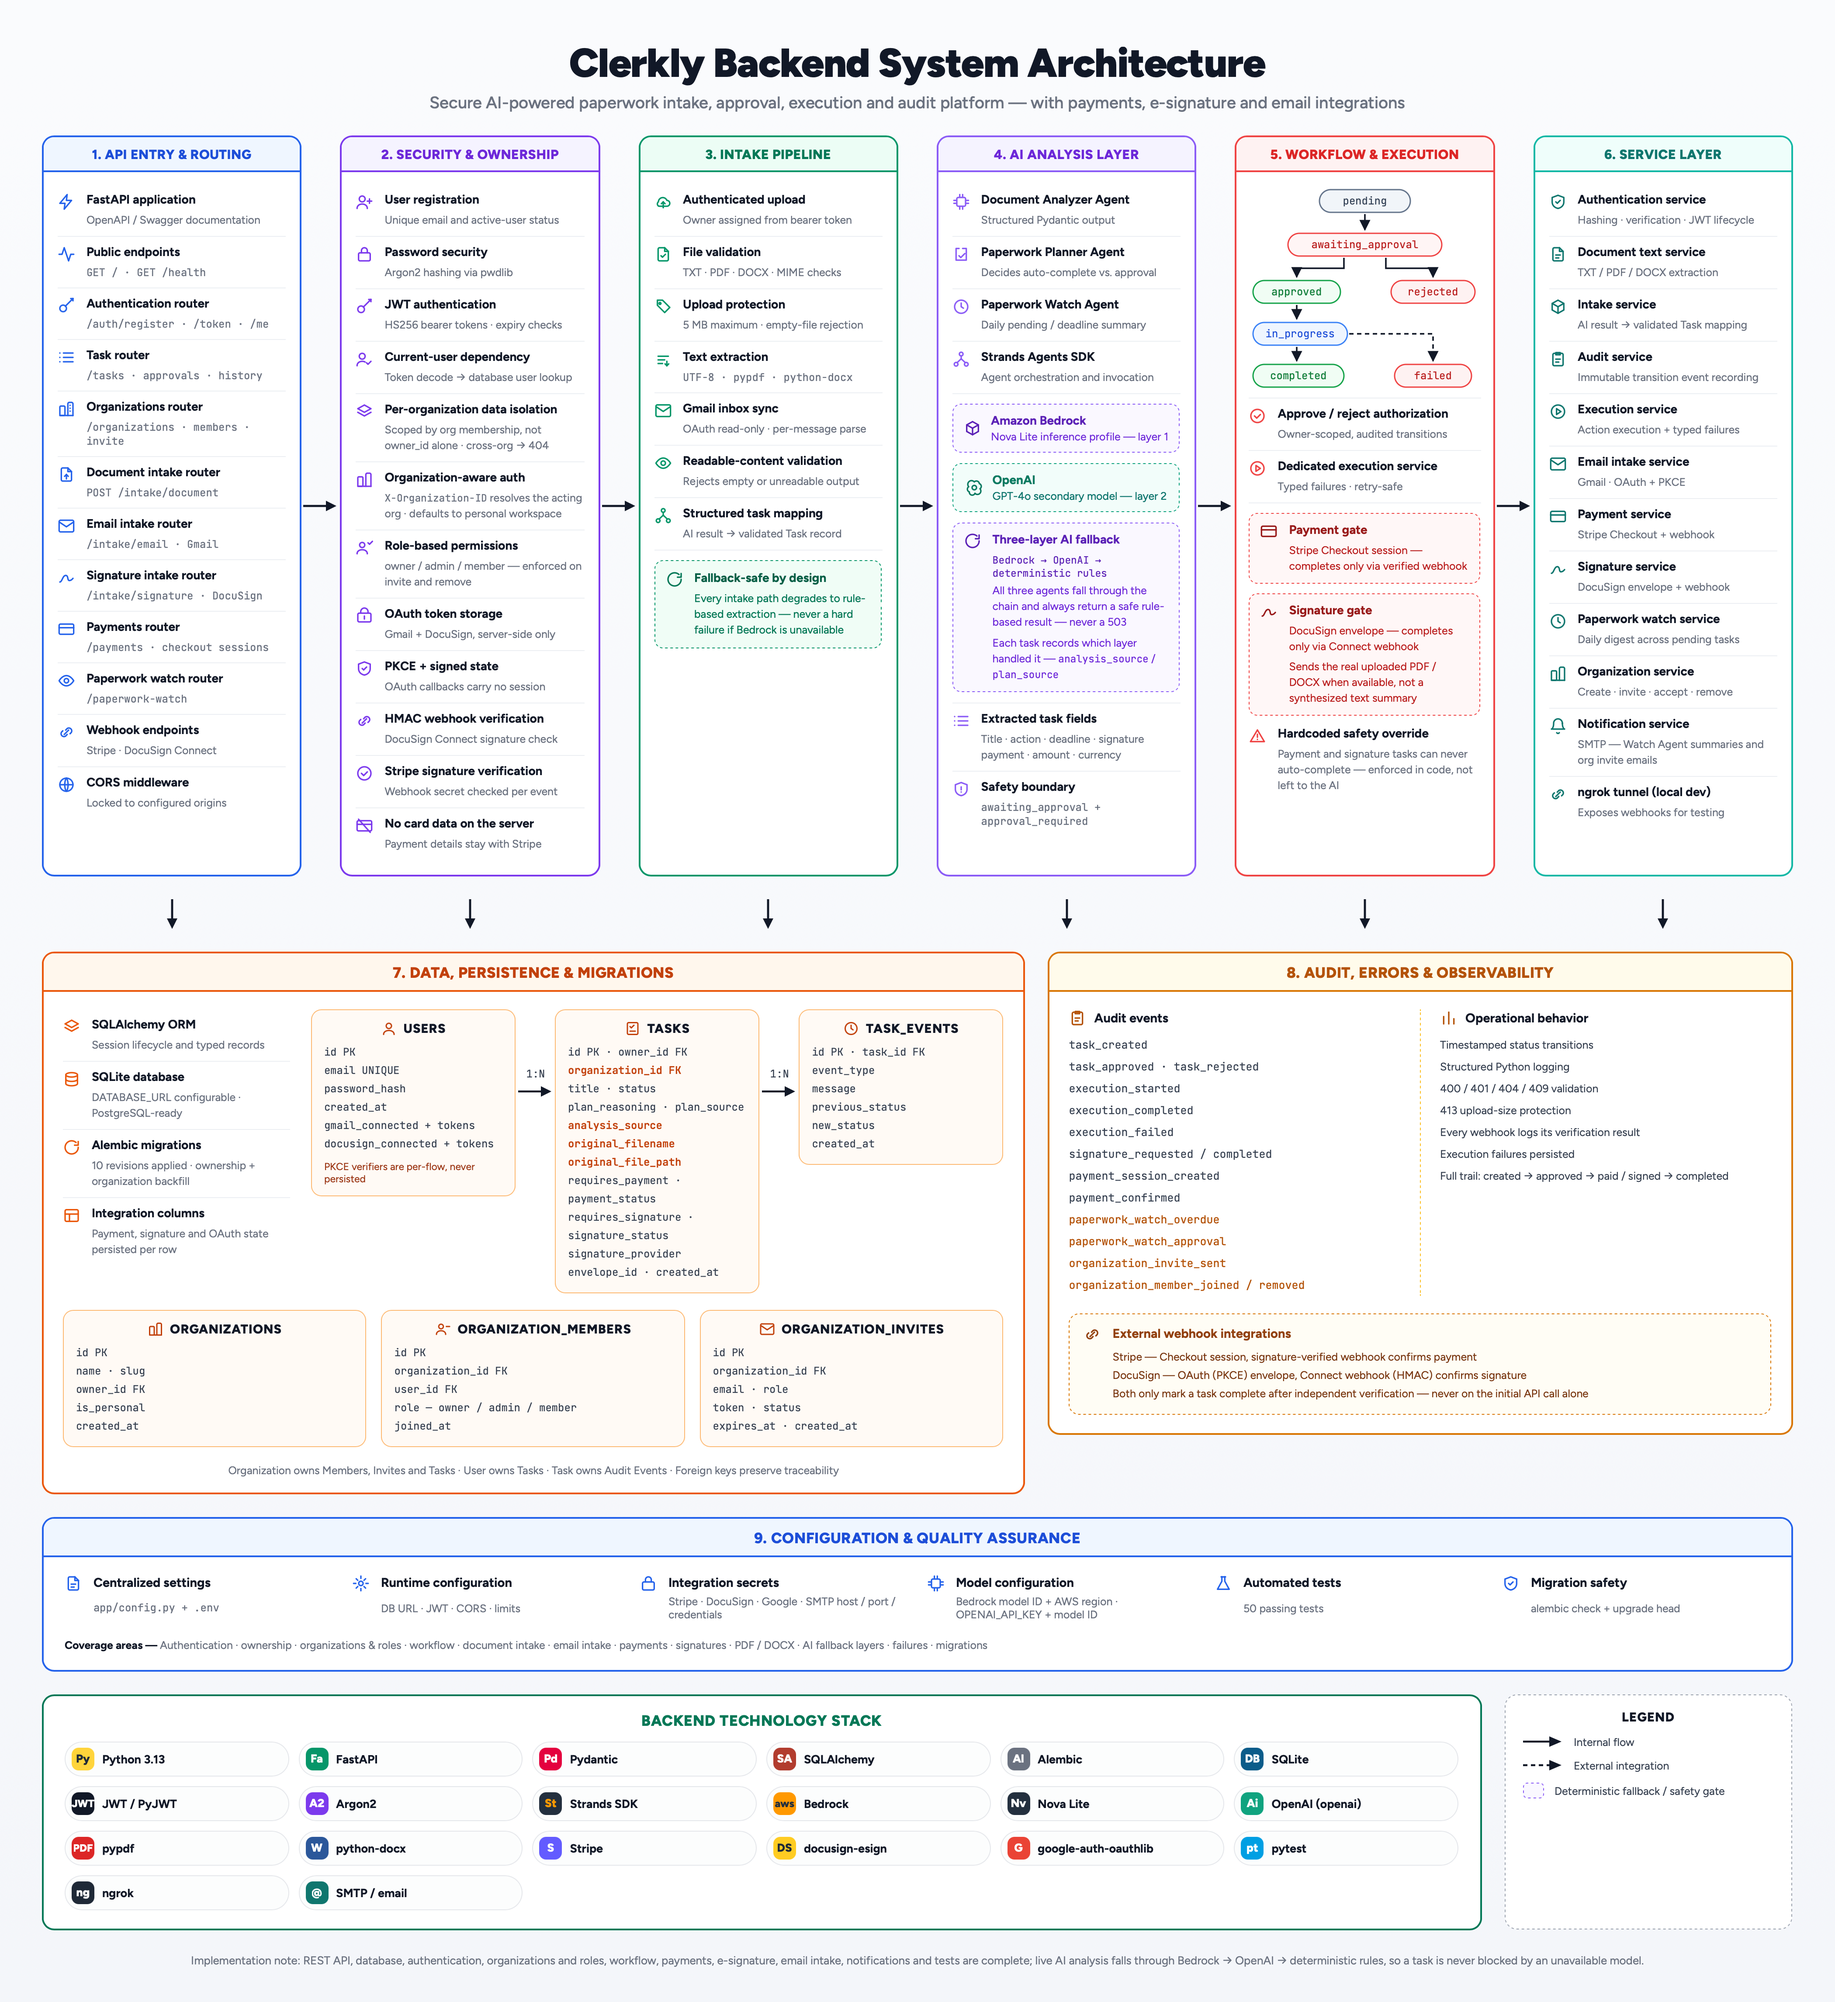
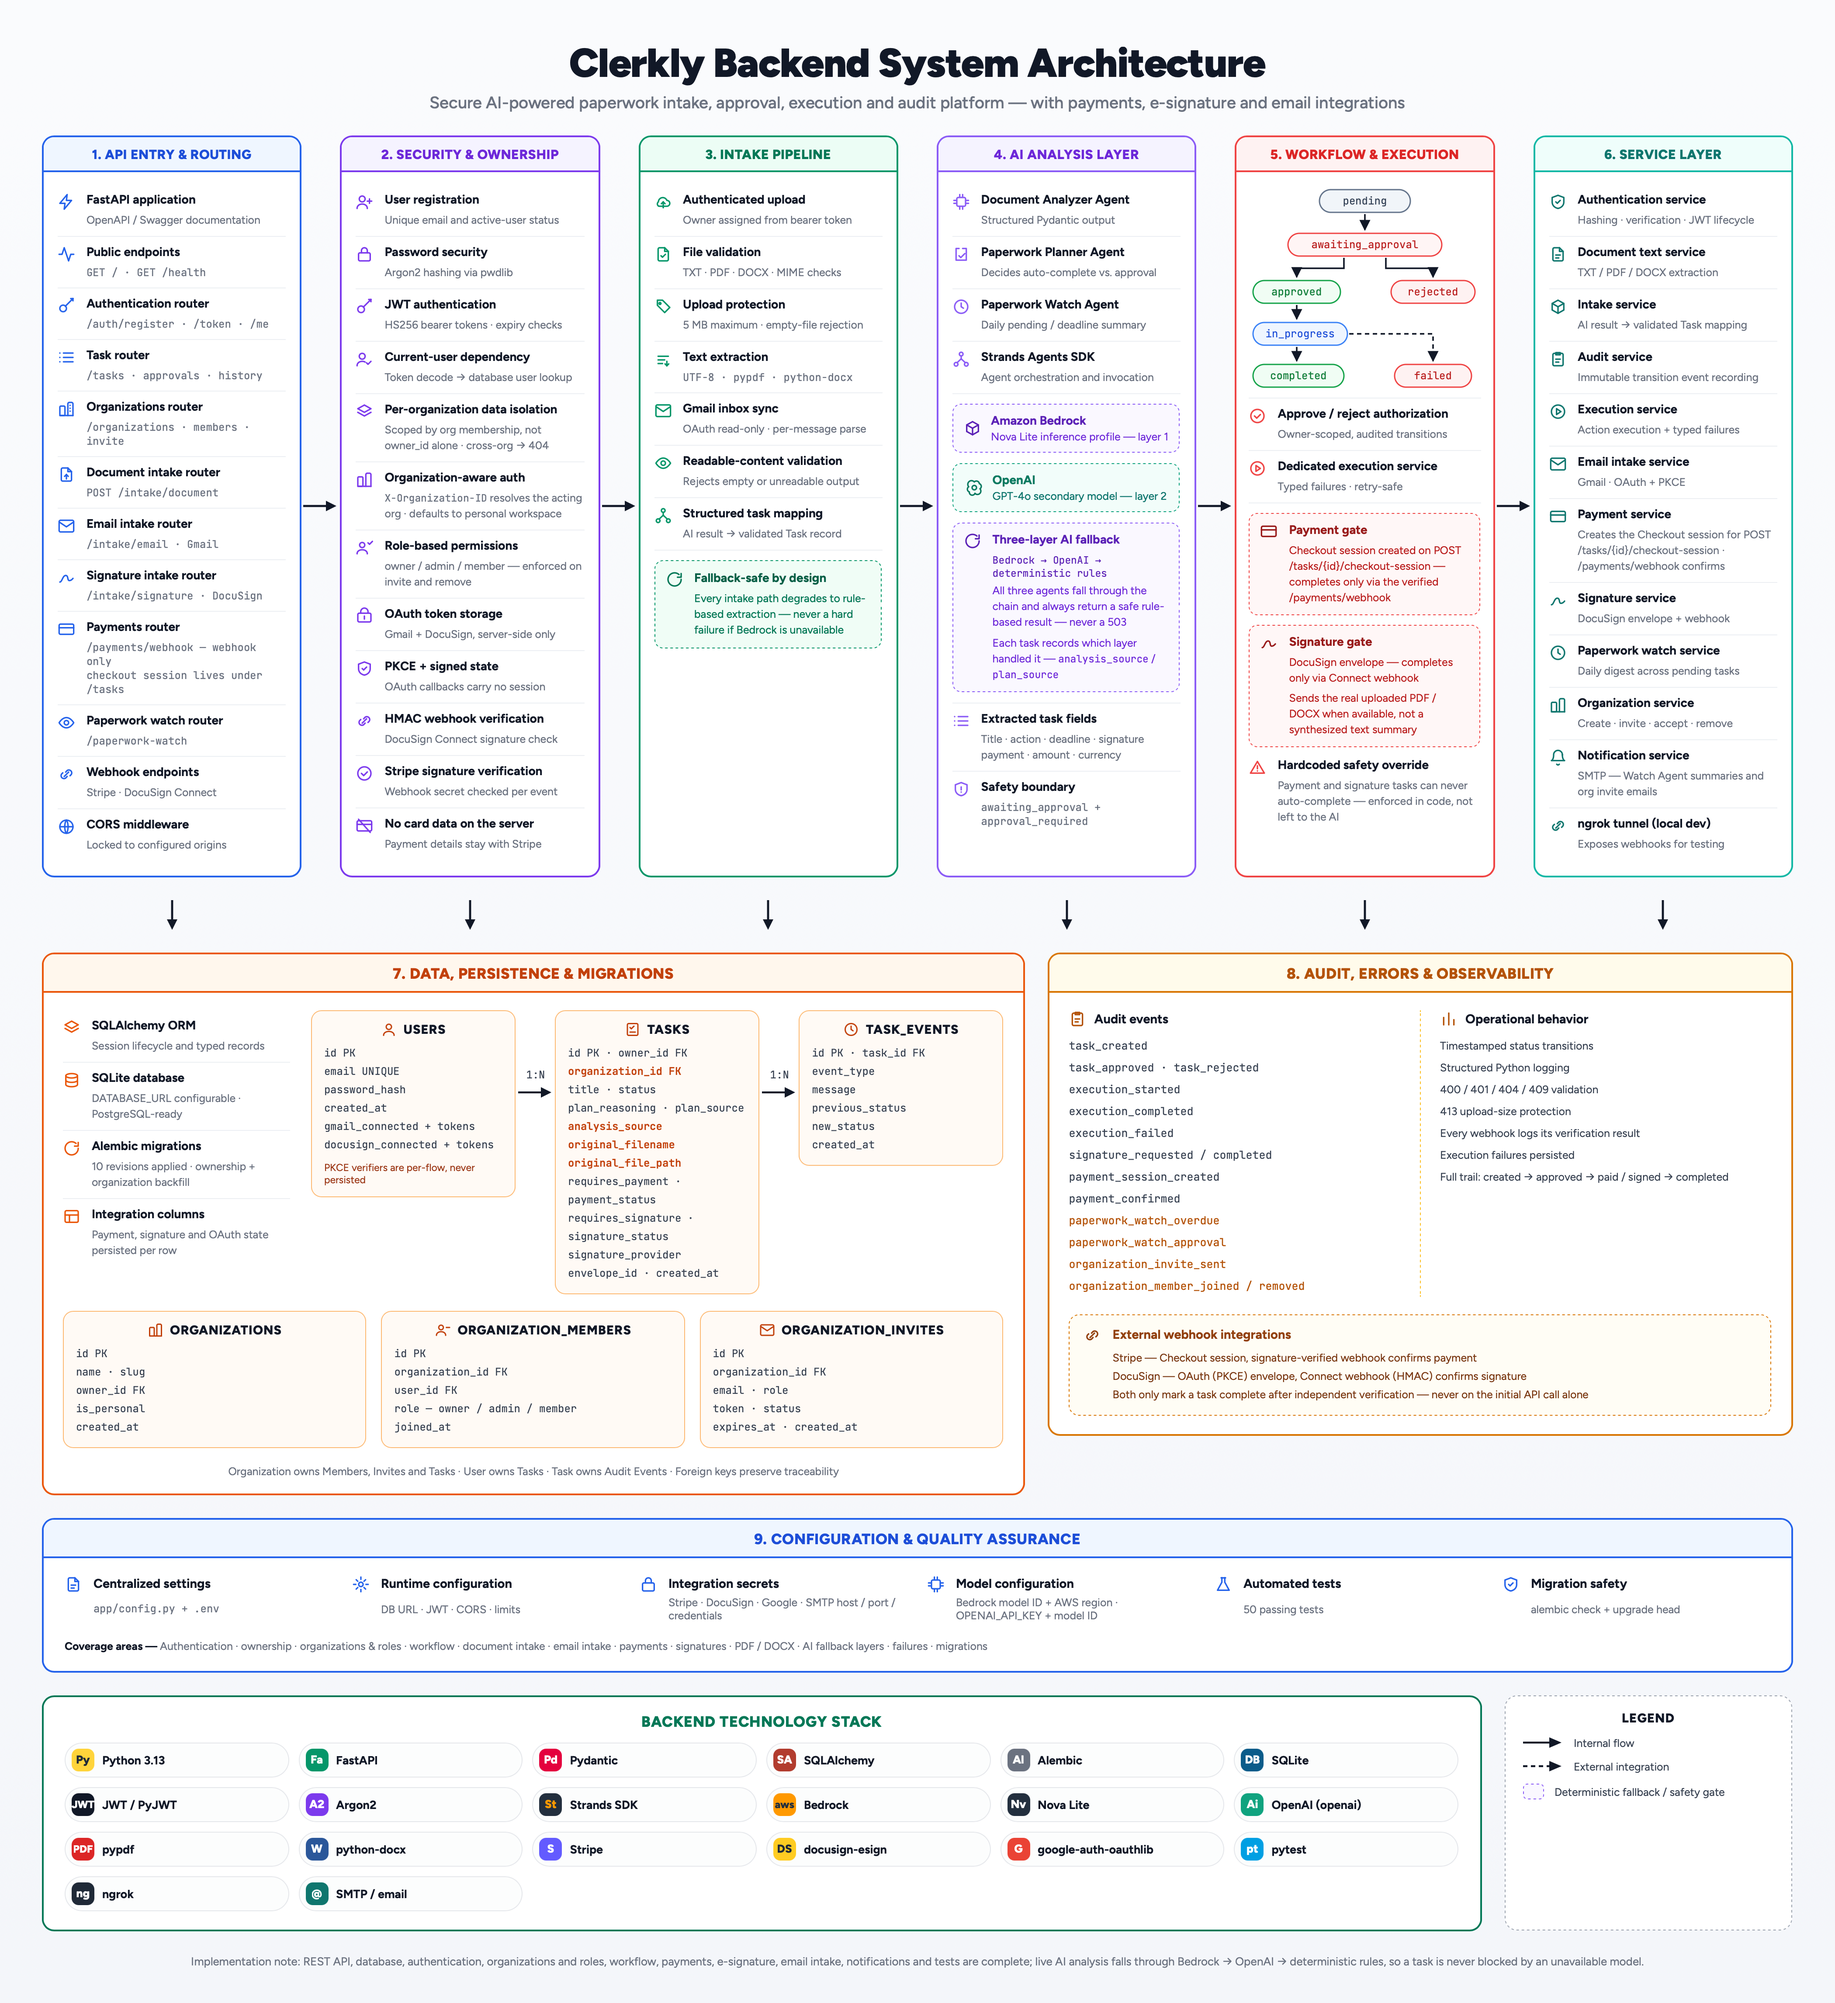
Add policy acceptance tracking (Terms of Service / Privacy Policy versioning)

diff --git a/backend/app/api/policy.py b/backend/app/api/policy.py
@@ -1,0 +1,80 @@
+from fastapi import APIRouter, Depends
+from sqlalchemy.orm import Session
+
+from app.auth_dependencies import get_current_user
+from app.config import settings
+from app.database import get_db
+from app.models.policy import (
+    AcceptPolicyRequest,
+    PolicyAcceptanceResponse,
+    PolicyStatus,
+)
+from app.models.user_record import UserRecord
+from app.services import policy_service
+
+
+router = APIRouter(
+    prefix="/policy",
+    tags=["Policy"],
+)
+
+
+@router.get("/status", response_model=PolicyStatus)
+def get_policy_status(
+    database: Session = Depends(get_db),
+    current_user: UserRecord = Depends(get_current_user),
+):
+    """
+    Tells the frontend whether the logged-in user needs to be
+    shown the accept-policy prompt — either because they've
+    never accepted anything, or because the current version has
+    moved past whatever they last accepted.
+    """
+
+    latest = policy_service.get_latest_acceptance(
+        database=database,
+        user_id=current_user.user_id,
+    )
+
+    return PolicyStatus(
+        current_version=settings.current_policy_version,
+        has_accepted_current_version=(
+            policy_service.has_accepted_current_version(
+                database=database,
+                user_id=current_user.user_id,
+            )
+        ),
+        accepted_version=(
+            latest.policy_version if latest else None
+        ),
+        accepted_at=latest.accepted_at if latest else None,
+    )
+
+
+@router.post(
+    "/accept",
+    response_model=PolicyAcceptanceResponse,
+    status_code=201,
+)
+def accept_policy(
+    body: AcceptPolicyRequest,
+    database: Session = Depends(get_db),
+    current_user: UserRecord = Depends(get_current_user),
+):
+    """
+    Records that the current user has accepted a specific
+    policy version. The frontend should call this right after
+    registration, and again any time /policy/status reports
+    has_accepted_current_version as False.
+    """
+
+    acceptance = policy_service.record_acceptance(
+        database=database,
+        user_id=current_user.user_id,
+        policy_version=body.policy_version,
+    )
+
+    return PolicyAcceptanceResponse(
+        policy_version=acceptance.policy_version,
+        accepted_at=acceptance.accepted_at,
+    )

diff --git a/backend/app/services/policy_service.py b/backend/app/services/policy_service.py
@@ -1,0 +1,68 @@
+from datetime import datetime, timezone
+from uuid import uuid4
+
+from sqlalchemy import select
+from sqlalchemy.orm import Session
+
+from app.config import settings
+from app.models.policy_acceptance_record import (
+    PolicyAcceptanceRecord,
+)
+
+
+def get_latest_acceptance(
+    database: Session,
+    user_id: str,
+) -> PolicyAcceptanceRecord | None:
+    statement = (
+        select(PolicyAcceptanceRecord)
+        .where(PolicyAcceptanceRecord.user_id == user_id)
+        .order_by(
+            PolicyAcceptanceRecord.accepted_at.desc()
+        )
+    )
+
+    return database.scalar(statement)
+
+
+def has_accepted_current_version(
+    database: Session,
+    user_id: str,
+) -> bool:
+    latest = get_latest_acceptance(database, user_id)
+
+    if latest is None:
+        return False
+
+    return (
+        latest.policy_version
+        == settings.current_policy_version
+    )
+
+
+def record_acceptance(
+    database: Session,
+    user_id: str,
+    policy_version: str,
+) -> PolicyAcceptanceRecord:
+    """
+    Records a new acceptance every time this is called — even
+    if the version matches an existing one. This keeps a full
+    history rather than upserting a single row, which is useful
+    if it's ever needed for a compliance record (e.g. "prove
+    this user accepted version 2.0 on this exact date").
+    """
+
+    acceptance = PolicyAcceptanceRecord(
+        acceptance_id=str(uuid4()),
+        user_id=user_id,
+        policy_version=policy_version,
+        accepted_at=datetime.now(timezone.utc),
+    )
+
+    database.add(acceptance)
+    database.commit()
+    database.refresh(acceptance)
+
+    return acceptance
+    

diff --git a/backend/migrations/versions/e5f6a7b8c9d0_add_policy_acceptances.py b/backend/migrations/versions/e5f6a7b8c9d0_add_policy_acceptances.py
@@ -1,0 +1,56 @@
+"""add policy_acceptances table
+
+Revision ID: e5f6a7b8c9d0
+Revises: d4e5f6a7b8c9
+Create Date: 2026-08-24
+
+"""
+from alembic import op
+import sqlalchemy as sa
+
+
+revision = "e5f6a7b8c9d0"
+down_revision = "d4e5f6a7b8c9"
+branch_labels = None
+depends_on = None
+
+
+def upgrade() -> None:
+    op.create_table(
+        "policy_acceptances",
+        sa.Column(
+            "acceptance_id", sa.String(), primary_key=True
+        ),
+        sa.Column(
+            "user_id",
+            sa.String(),
+            sa.ForeignKey(
+                "users.user_id",
+                name="fk_policy_acceptances_user_id",
+            ),
+            nullable=False,
+        ),
+        sa.Column(
+            "policy_version",
+            sa.String(length=20),
+            nullable=False,
+        ),
+        sa.Column(
+            "accepted_at",
+            sa.DateTime(timezone=True),
+            nullable=False,
+        ),
+    )
+    op.create_index(
+        "ix_policy_acceptances_user_id",
+        "policy_acceptances",
+        ["user_id"],
+    )
+
+
+def downgrade() -> None:
+    op.drop_index(
+        "ix_policy_acceptances_user_id",
+        "policy_acceptances",
+    )
+    op.drop_table("policy_acceptances")

diff --git a/backend/app/models/policy_acceptance_record.py b/backend/app/models/policy_acceptance_record.py
@@ -1,0 +1,43 @@
+from datetime import datetime, timezone
+from uuid import uuid4
+
+from sqlalchemy import DateTime, ForeignKey, String
+from sqlalchemy.orm import Mapped, mapped_column
+
+from app.database import Base
+
+
+class PolicyAcceptanceRecord(Base):
+    __tablename__ = "policy_acceptances"
+
+    acceptance_id: Mapped[str] = mapped_column(
+        String,
+        primary_key=True,
+        default=lambda: str(uuid4()),
+    )
+
+    user_id: Mapped[str] = mapped_column(
+        String,
+        ForeignKey(
+            "users.user_id",
+            name="fk_policy_acceptances_user_id",
+        ),
+        nullable=False,
+        index=True,
+    )
+
+    # A plain version string ("1.0", "2024-06-01", etc.) — not
+    # a foreign key to anything, since the policy text itself
+    # lives as static content, not a database row. Kept
+    # deliberately simple: bump this string whenever the Terms
+    # or Privacy Policy actually changes.
+    policy_version: Mapped[str] = mapped_column(
+        String(length=20),
+        nullable=False,
+    )
+
+    accepted_at: Mapped[datetime] = mapped_column(
+        DateTime(timezone=True),
+        default=lambda: datetime.now(timezone.utc),
+        nullable=False,
+    )

diff --git a/backend/app/config.py b/backend/app/config.py
@@ -134,6 +134,12 @@ class Settings:
 
     log_level: str
 
+    # Bumped whenever the Terms of Service / Privacy Policy
+    # text actually changes. Anyone whose last acceptance
+    # doesn't match this gets prompted to accept again — see
+    # app/services/policy_service.py.
+    current_policy_version: str
+
     @property
     def max_upload_size_bytes(self) -> int:
         return self.max_upload_size_mb * 1024 * 1024
@@ -321,6 +327,10 @@ def load_settings() -> Settings:
             "LOG_LEVEL",
             "INFO",
         ).upper(),
+        current_policy_version=os.getenv(
+            "CURRENT_POLICY_VERSION",
+            "1.0",
+        ),
     )
 
 

diff --git a/backend/app/main.py b/backend/app/main.py
@@ -25,6 +25,7 @@ from app.database import SessionLocal
 from app.models.organization_record import OrganizationRecord
 from app.models.task_record import TaskRecord
 
+from app.api.policy import router as policy_router
 logging.basicConfig(
     level=getattr(
         logging,
@@ -140,6 +141,7 @@ app.include_router(signature_intake_router)
 app.include_router(payments_router)
 app.include_router(webhook_router)
 app.include_router(paperwork_watch_router)
+app.include_router(policy_router)
 
 @app.get("/")
 def root():

diff --git a/backend/app/models/policy.py b/backend/app/models/policy.py
@@ -1,0 +1,19 @@
+from datetime import datetime
+
+from pydantic import BaseModel
+
+
+class PolicyStatus(BaseModel):
+    current_version: str
+    has_accepted_current_version: bool
+    accepted_version: str | None = None
+    accepted_at: datetime | None = None
+
+
+class AcceptPolicyRequest(BaseModel):
+    policy_version: str
+
+
+class PolicyAcceptanceResponse(BaseModel):
+    policy_version: str
+    accepted_at: datetime

diff --git a/backend/migrations/env.py b/backend/migrations/env.py
@@ -17,6 +17,8 @@ from app.models.organization_record import OrganizationRecord  # noqa: F401
 from app.models.organization_member_record import OrganizationMemberRecord  # noqa: F401
 from app.models.organization_invite_record import OrganizationInviteRecord  # noqa: F401
 
+from app.models.policy_acceptance_record import PolicyAcceptanceRecord  # noqa: F401
+
 config = context.config
 
 database_url = os.getenv(
